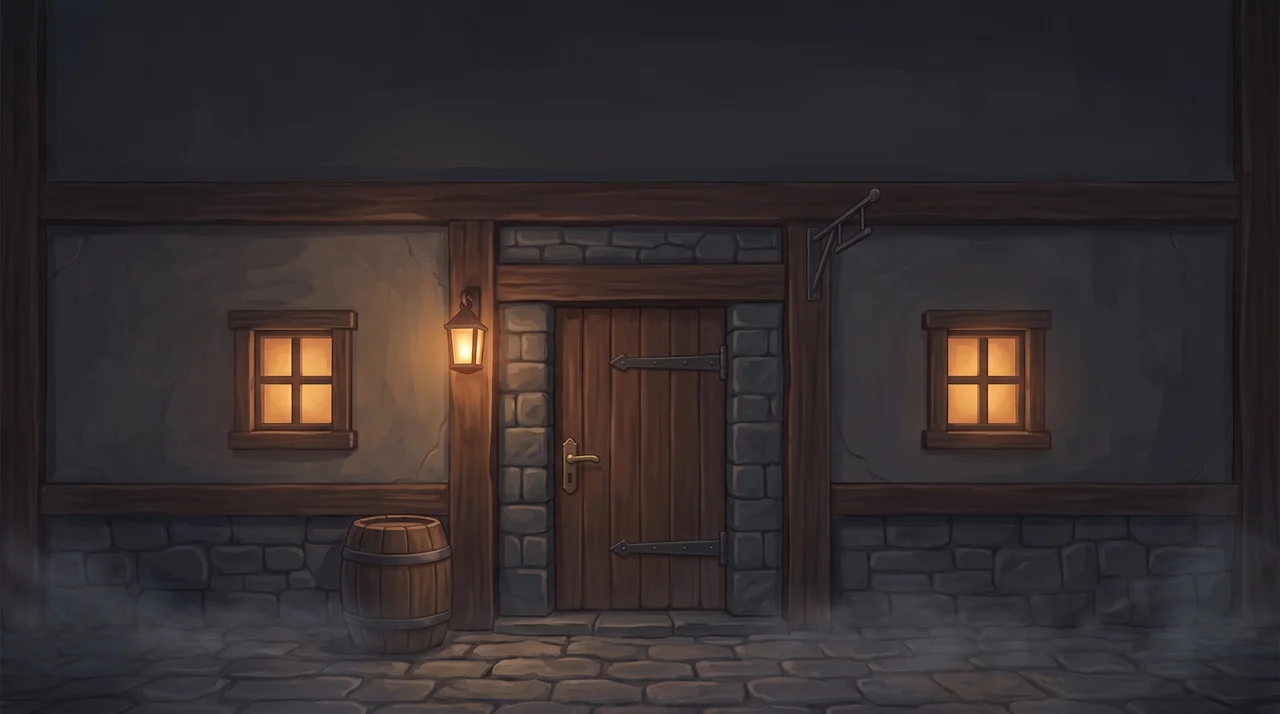
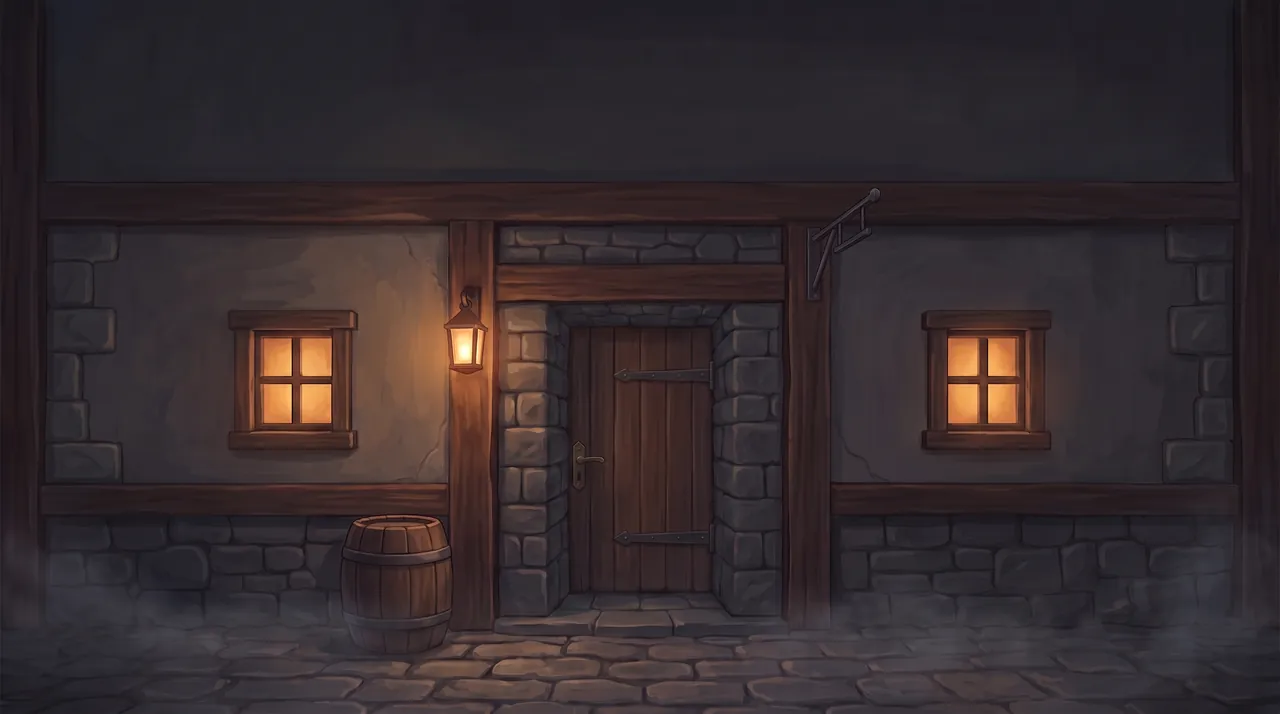
Retier backgrounds to 2560, refresh room and entrance art

Changed region(s): [[0.4375, 0.4314, 0.5625, 0.8627], [0.5, 0.8319, 0.5312, 0.8627], [0.5, 0.7395, 0.5312, 0.7703]]

diff --git a/art/README.md b/art/README.md
@@ -50,21 +50,21 @@ The `public/art/` directory contains exactly the following 26 files. These are t
 | innkeeper-neutral-516.webp | 516x1365 | 51640 | sprite |
 | innkeeper-presenting-device-259.webp | 259x681 | 31058 | sprite |
 | innkeeper-presenting-device-519.webp | 519x1365 | 46056 | sprite |
-| messengers-corner-1280.webp | 1280x714 | 47790 | background |
-| messengers-corner-2752.webp | 2752x1536 | 132036 | background |
+| messengers-corner-1280.webp | 1280x714 | 33810 | background |
+| messengers-corner-2560.webp | 2560x1429 | 88452 | background |
 | quest-board-1192.webp | 1192x662 | 36972 | sprite |
 | quest-board-2384.webp | 2384x1323 | 89746 | sprite |
 | raven-delivering-letter-388.webp | 388x144 | 19124 | sprite |
 | raven-delivering-letter-776.webp | 776x288 | 31698 | sprite |
 | raven-perched-231.webp | 231x255 | 15188 | sprite |
 | raven-perched-463.webp | 463x512 | 23840 | sprite |
-| tavern-entrance-closed-1280.webp | 1280x714 | 33536 | background |
-| tavern-entrance-closed-2752.webp | 2752x1536 | 88878 | background |
-| tavern-entrance-open-1280.webp | 1280x714 | 36144 | background |
-| tavern-entrance-open-2752.webp | 2752x1536 | 96316 | background |
+| tavern-entrance-closed-1280.webp | 1280x714 | 27462 | background |
+| tavern-entrance-closed-2560.webp | 2560x1429 | 66868 | background |
+| tavern-entrance-open-1280.webp | 1280x714 | 28868 | background |
+| tavern-entrance-open-2560.webp | 2560x1429 | 70622 | background |
 | tavern-regular-neutral-470.webp | 470x703 | 46712 | sprite |
 | tavern-regular-neutral-940.webp | 940x1406 | 82016 | sprite |
-| tavern-room-1280.webp | 1280x714 | 84892 | background |
-| tavern-room-2752.webp | 2752x1536 | 144848 | background |
+| tavern-room-1280.webp | 1280x715 | 57898 | background |
+| tavern-room-2560.webp | 2560x1430 | 130582 | background |
 | tavern-sign-1694.webp | 1694x1267 | 77312 | sprite |
 | tavern-sign-847.webp | 847x634 | 48372 | sprite |
